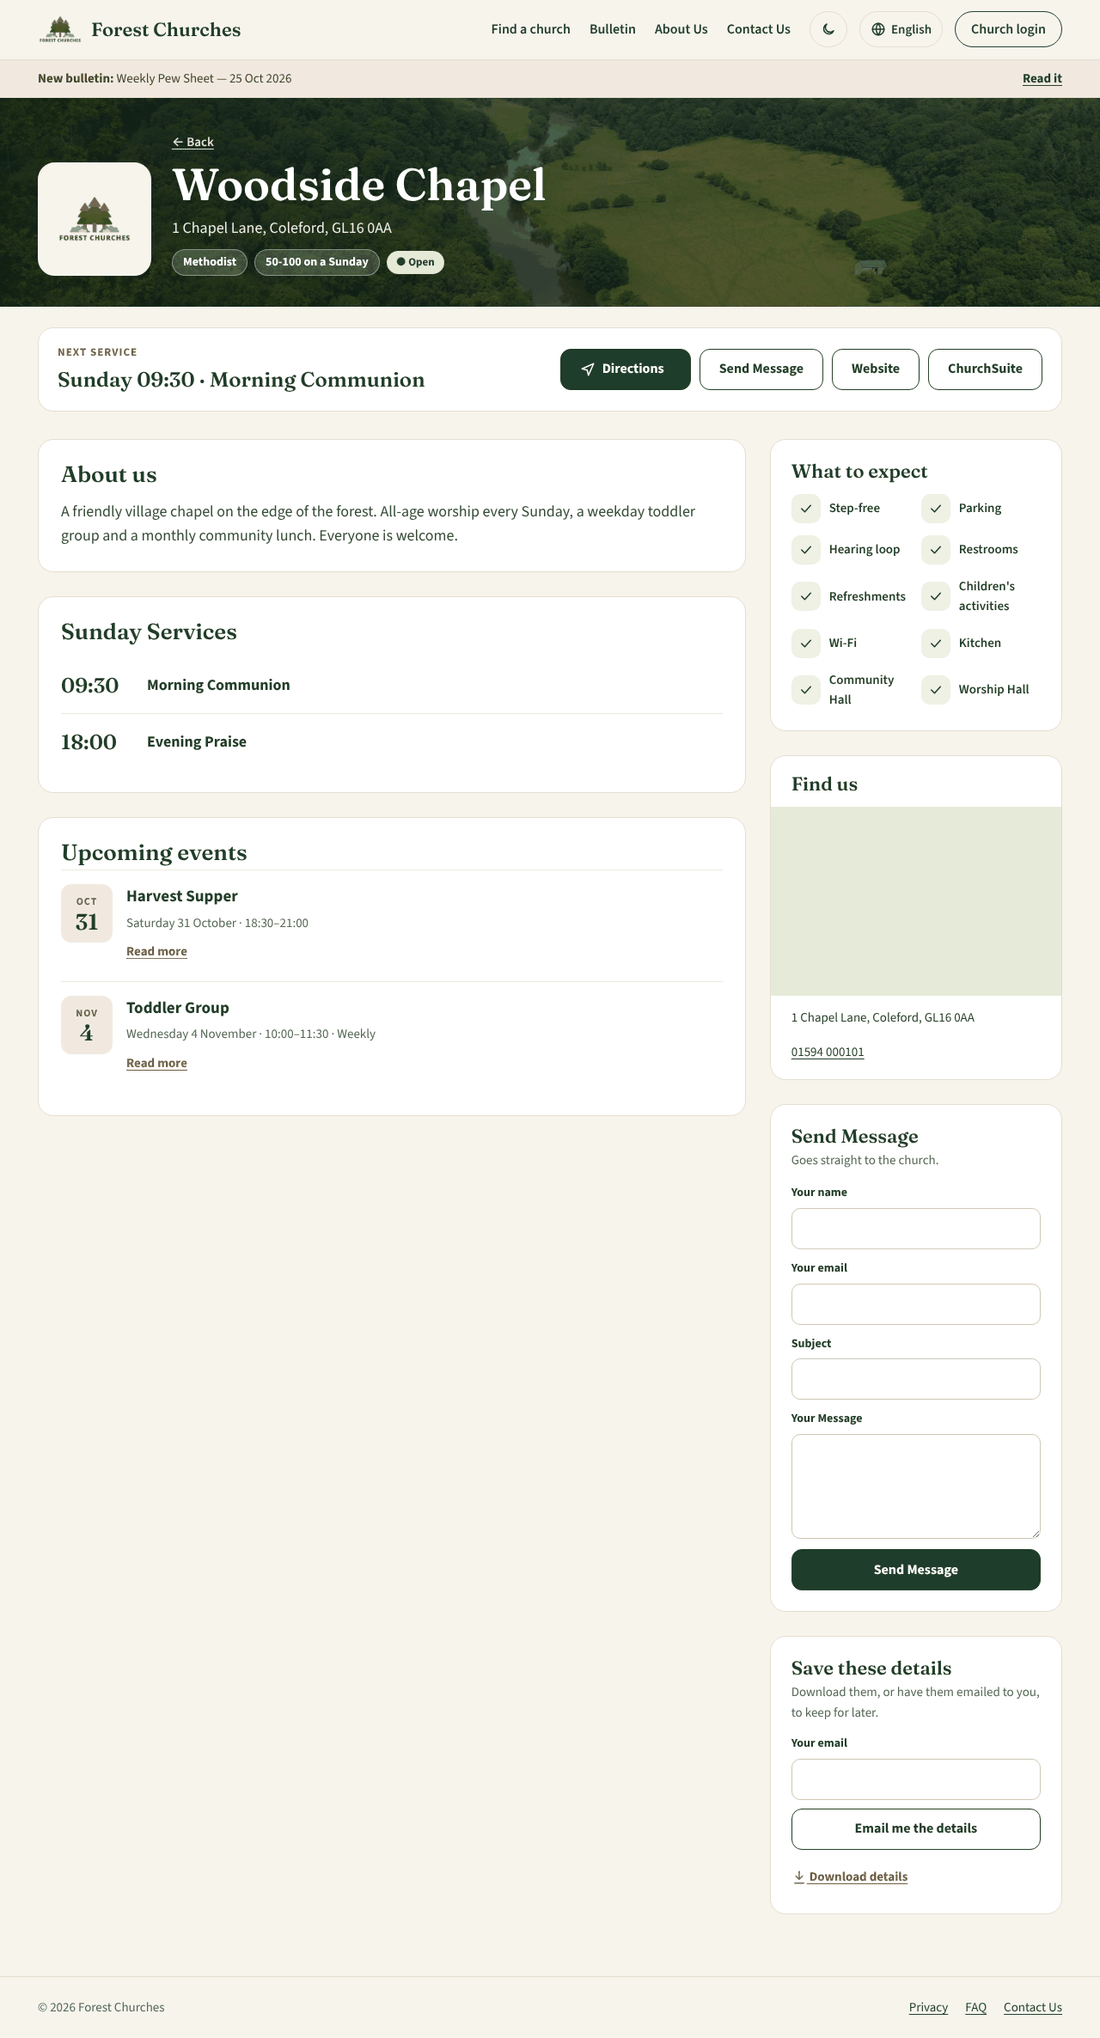
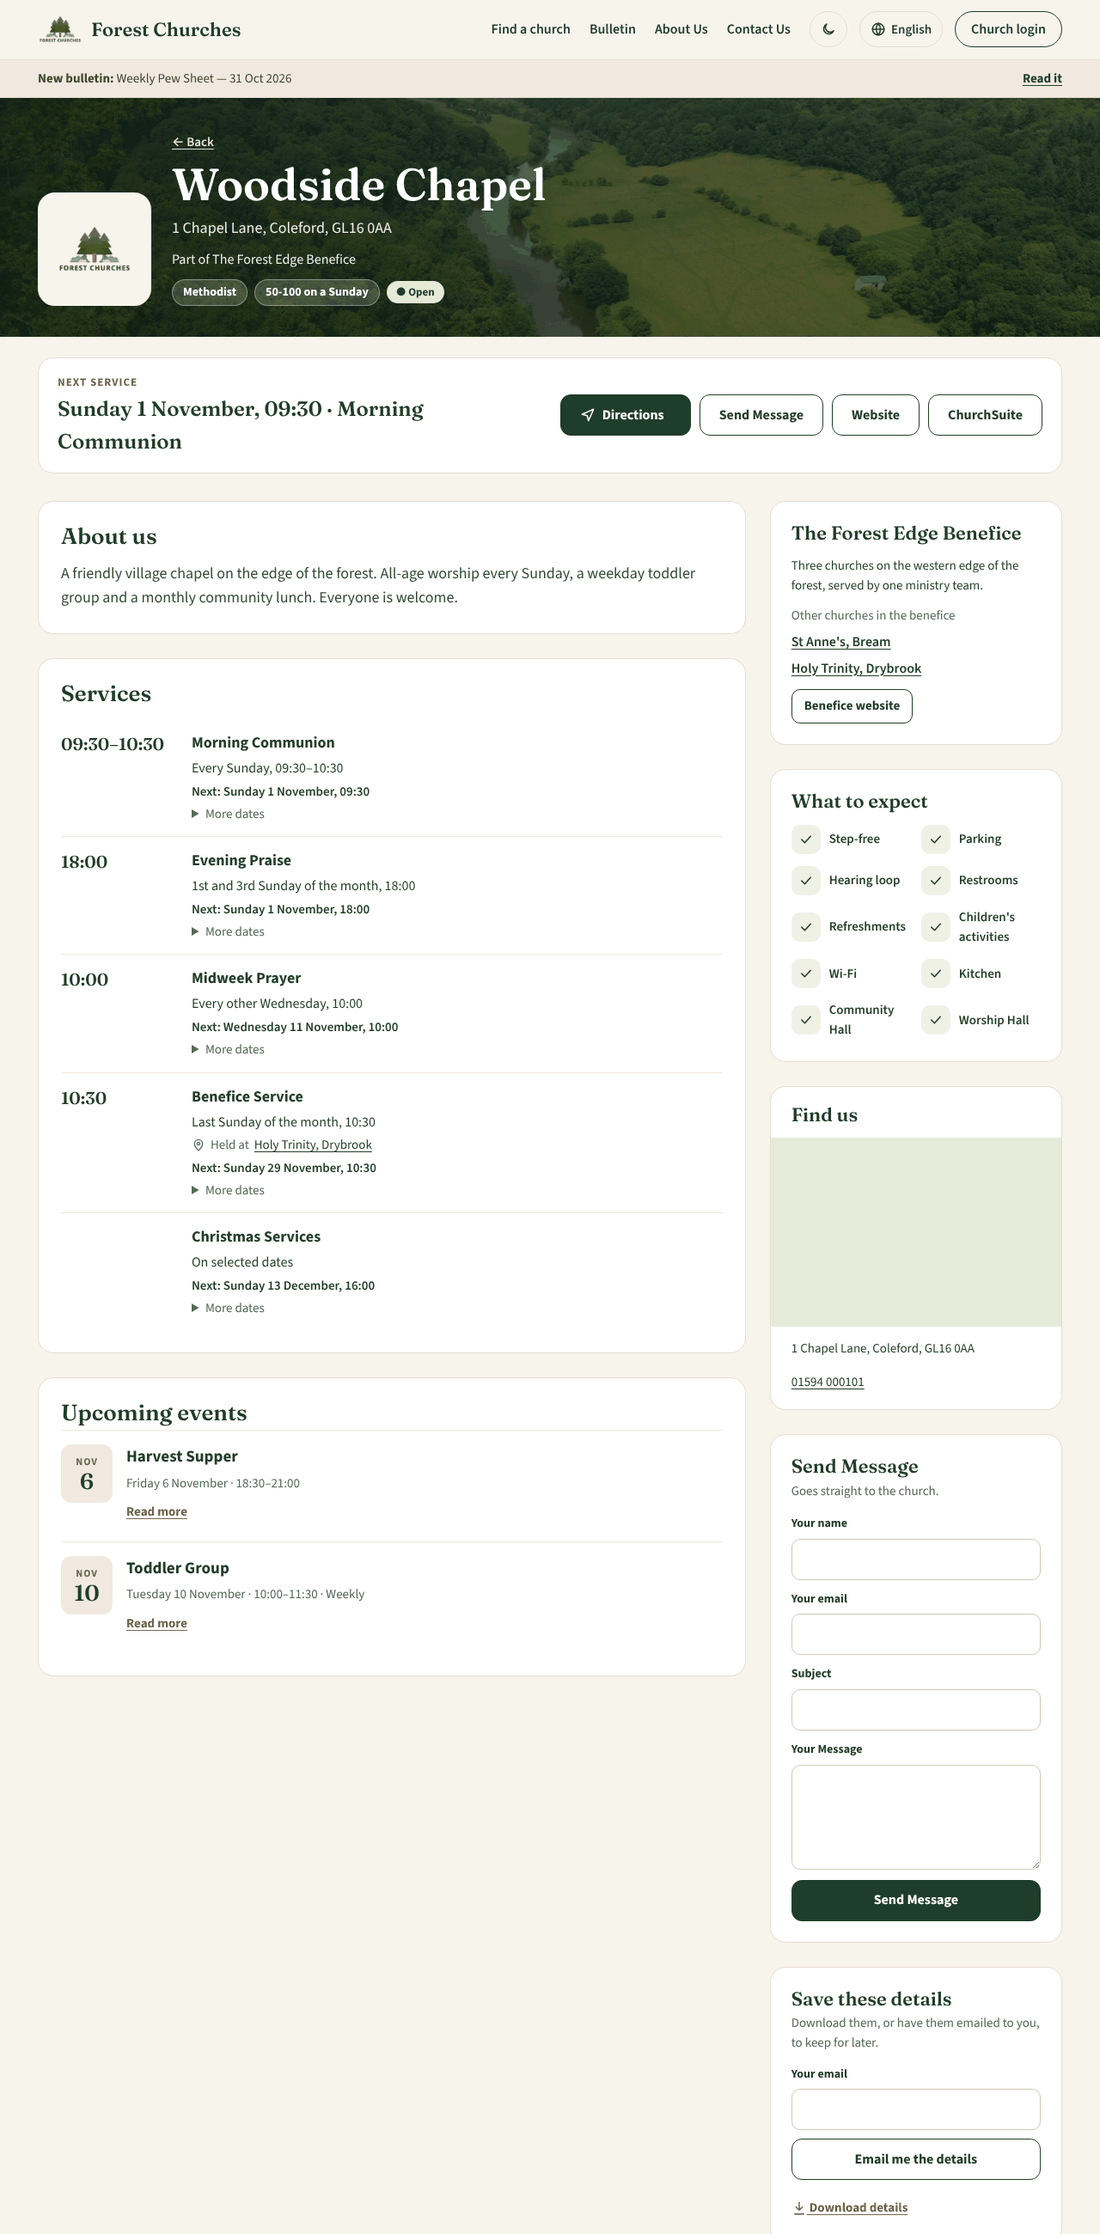
Migration: drop and re-add the church->account foreign key around the index change
MySQL and MariaDB refuse to drop an index a foreign key relies on (caught by the
migration data test in CI). Also: stack the church switcher in the sidebar, keep
the time column on one line, and only show a time for specific-date services
when every date shares it. Updated docs screenshots.

Claude-Session: https://claude.ai/code/session_01McK2HRqy6S5MPubX5tWTsb

diff --git a/wwwroot/css/forest.css b/wwwroot/css/forest.css
@@ -711,7 +711,7 @@ body.fc-body.fc-body--admin { background: var(--fc-ground-2); }
 }
 /* ---- Service schedules (church page, My Church) ---- */
 .fc-service--schedule { align-items: flex-start; }
-.fc-service--schedule .fc-service__time { flex-basis: 120px; font-size: 20px; line-height: 1.3; padding-top: 2px; }
+.fc-service--schedule .fc-service__time { flex: 0 0 132px; font-size: 20px; line-height: 1.3; padding-top: 2px; white-space: nowrap; }
 .fc-service__body { display: flex; flex-direction: column; gap: 3px; min-width: 0; }
 .fc-service__rule { font-size: 16px; }
 .fc-service__where { display: inline-flex; align-items: center; gap: 6px; font-size: 15px; color: var(--fc-muted); }

diff --git a/Migrations/20261028211943_BeneficesAndServiceSchedules.cs b/Migrations/20261028211943_BeneficesAndServiceSchedules.cs
@@ -11,6 +11,12 @@ namespace ForestChurches.Migrations
         /// <inheritdoc />
         protected override void Up(MigrationBuilder migrationBuilder)
         {
+            // MySQL/MariaDB won't drop an index a foreign key relies on, so the church -> account key is
+            // dropped while the index changes from unique (one church per account) to non-unique, then re-added.
+            migrationBuilder.DropForeignKey(
+                name: "FK_ChurchInformation_AspNetUsers_ChurchAccountId",
+                table: "ChurchInformation");
+
             migrationBuilder.DropIndex(
                 name: "IX_ChurchInformation_ChurchAccountId",
                 table: "ChurchInformation");
@@ -167,6 +173,14 @@ namespace ForestChurches.Migrations
                 table: "ChurchInformation",
                 column: "ChurchAccountId");
 
+            migrationBuilder.AddForeignKey(
+                name: "FK_ChurchInformation_AspNetUsers_ChurchAccountId",
+                table: "ChurchInformation",
+                column: "ChurchAccountId",
+                principalTable: "AspNetUsers",
+                principalColumn: "Id",
+                onDelete: ReferentialAction.Cascade);
+
             migrationBuilder.CreateIndex(
                 name: "IX_Benefices_Name",
                 table: "Benefices",
@@ -217,6 +231,12 @@ namespace ForestChurches.Migrations
 
             migrationBuilder.DropIndex(
                 name: "IX_ChurchInformation_BeneficeId",
+                table: "ChurchInformation");
+
+            // MySQL/MariaDB won't drop an index a foreign key relies on, so the church -> account key is
+            // dropped while the index changes back to unique, then re-added.
+            migrationBuilder.DropForeignKey(
+                name: "FK_ChurchInformation_AspNetUsers_ChurchAccountId",
                 table: "ChurchInformation");
 
             migrationBuilder.DropIndex(
@@ -275,11 +295,21 @@ namespace ForestChurches.Migrations
                 name: "ImageBlobName",
                 table: "ChurchInformation");
 
+            // Note: rolling back fails if any account manages more than one church (the unique index can't be
+            // created). Move or remove the extra churches first.
             migrationBuilder.CreateIndex(
                 name: "IX_ChurchInformation_ChurchAccountId",
                 table: "ChurchInformation",
                 column: "ChurchAccountId",
                 unique: true);
+
+            migrationBuilder.AddForeignKey(
+                name: "FK_ChurchInformation_AspNetUsers_ChurchAccountId",
+                table: "ChurchInformation",
+                column: "ChurchAccountId",
+                principalTable: "AspNetUsers",
+                principalColumn: "Id",
+                onDelete: ReferentialAction.Cascade);
         }
     }
 }
